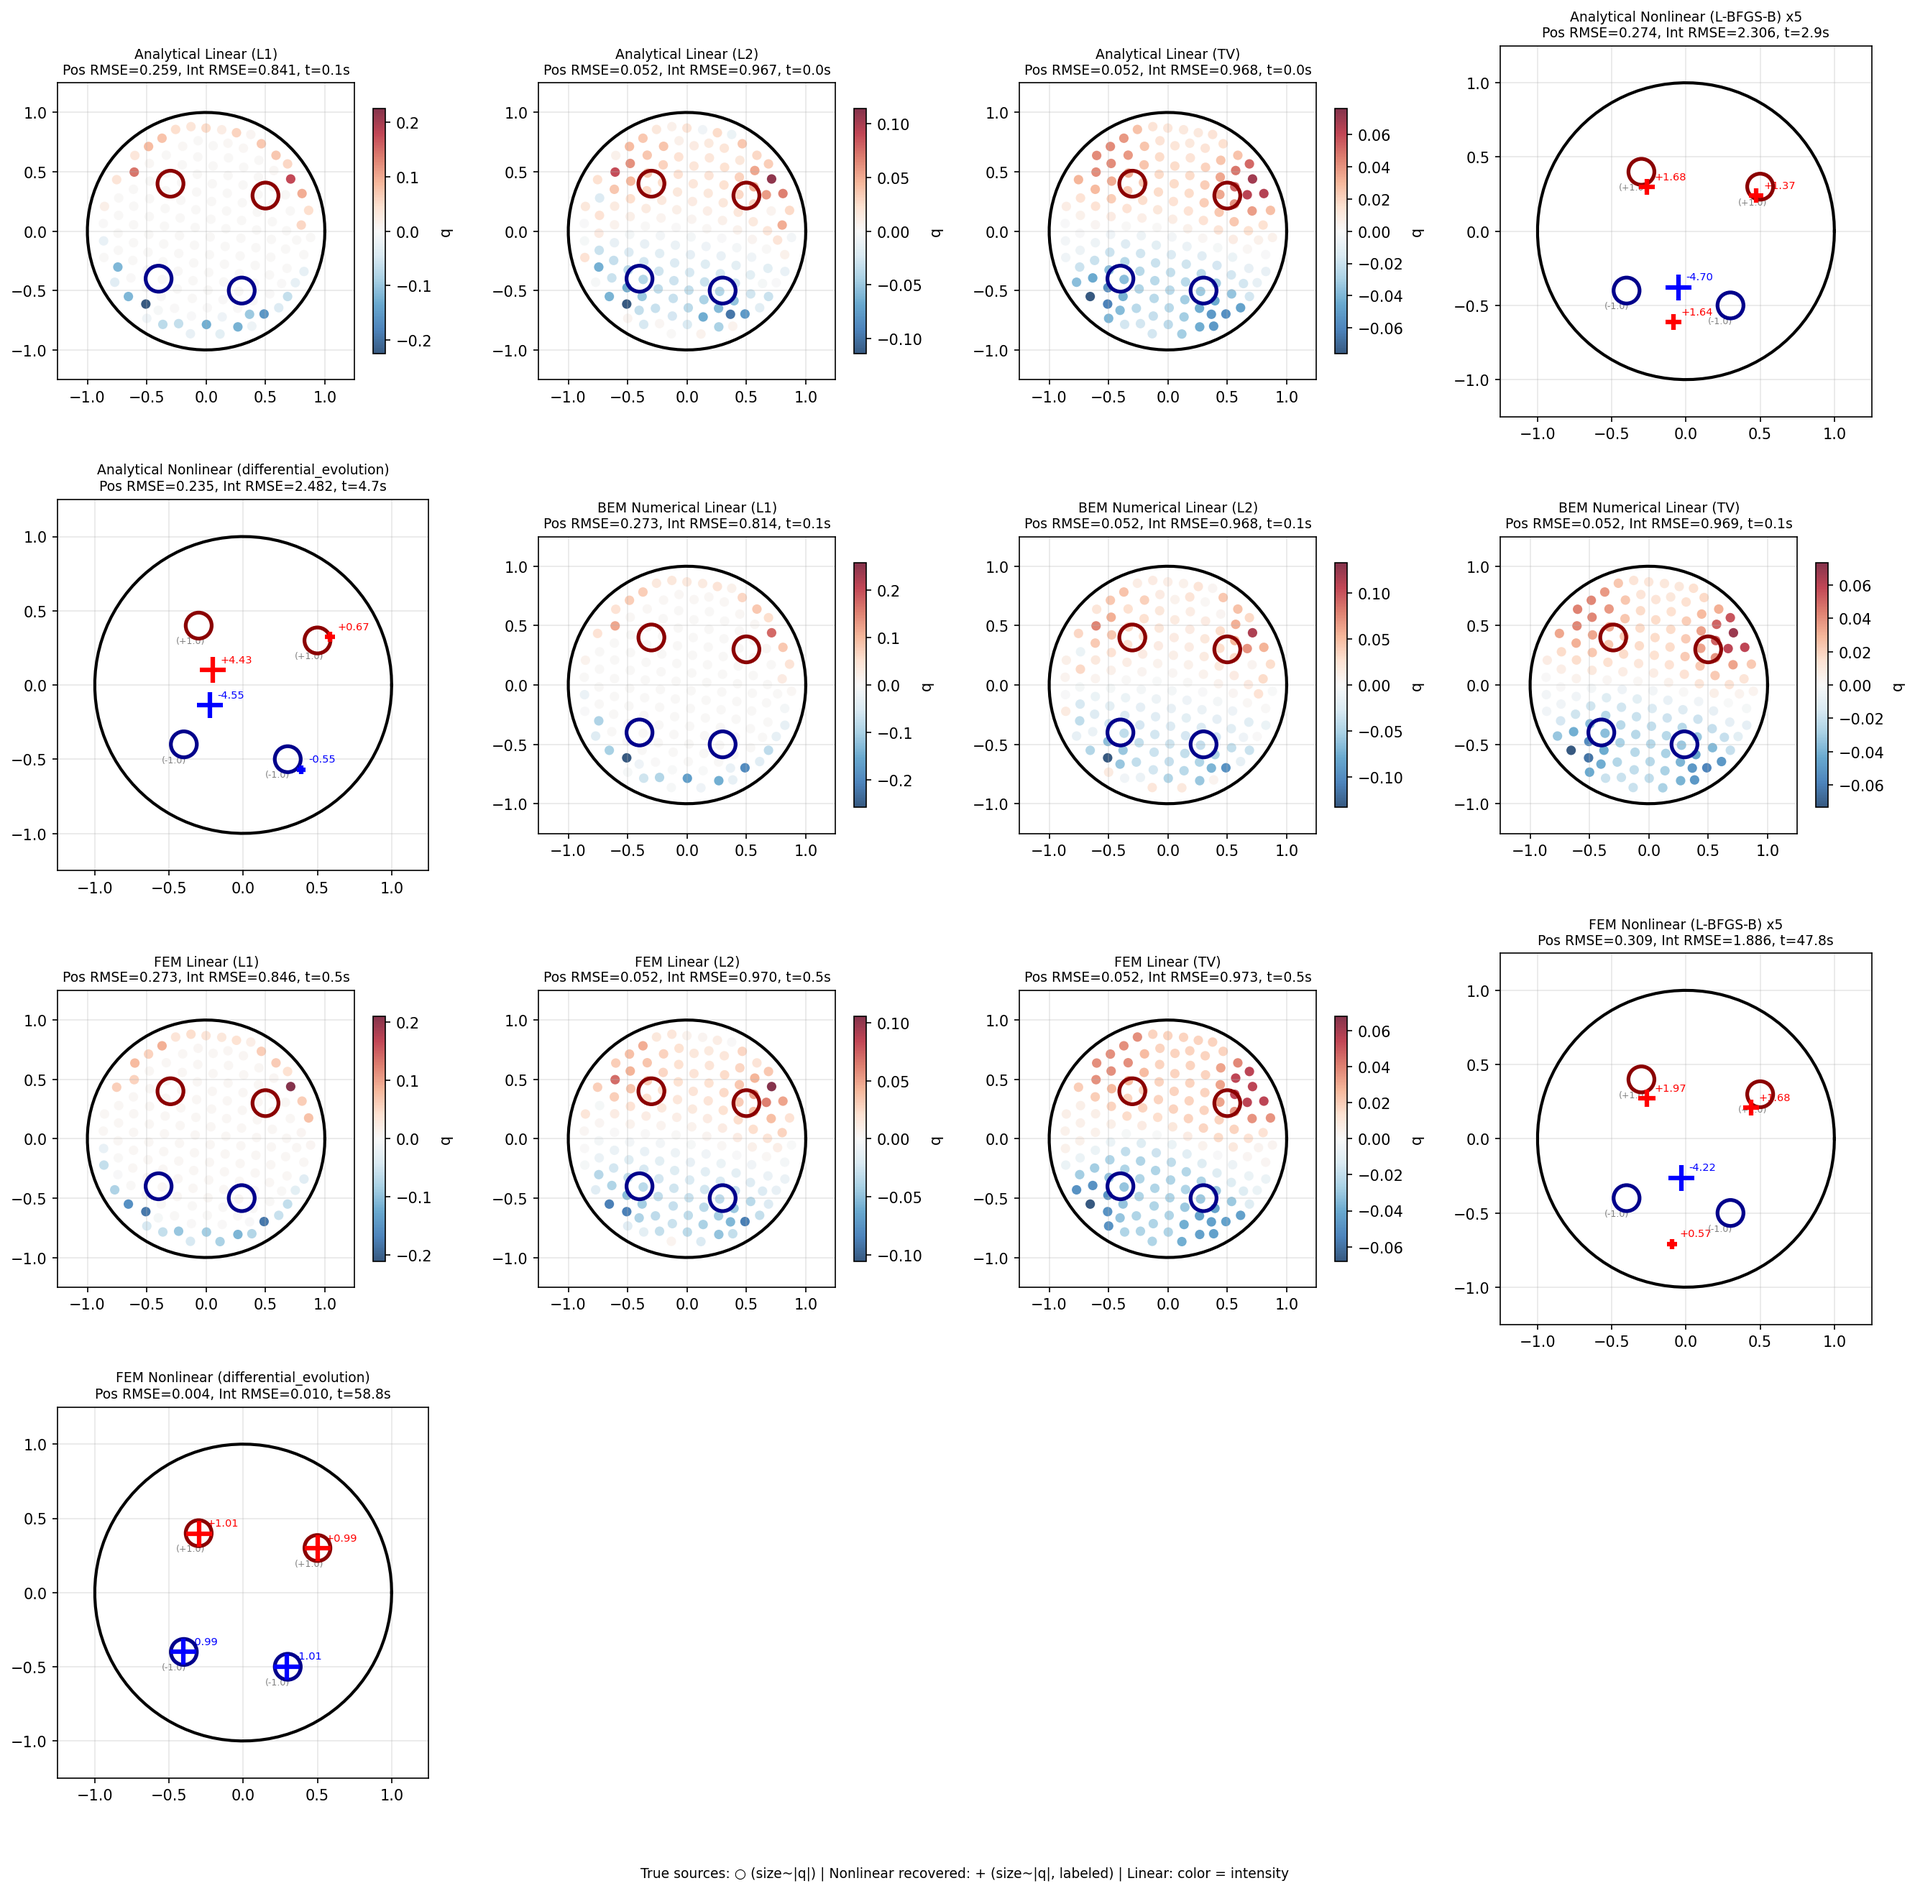
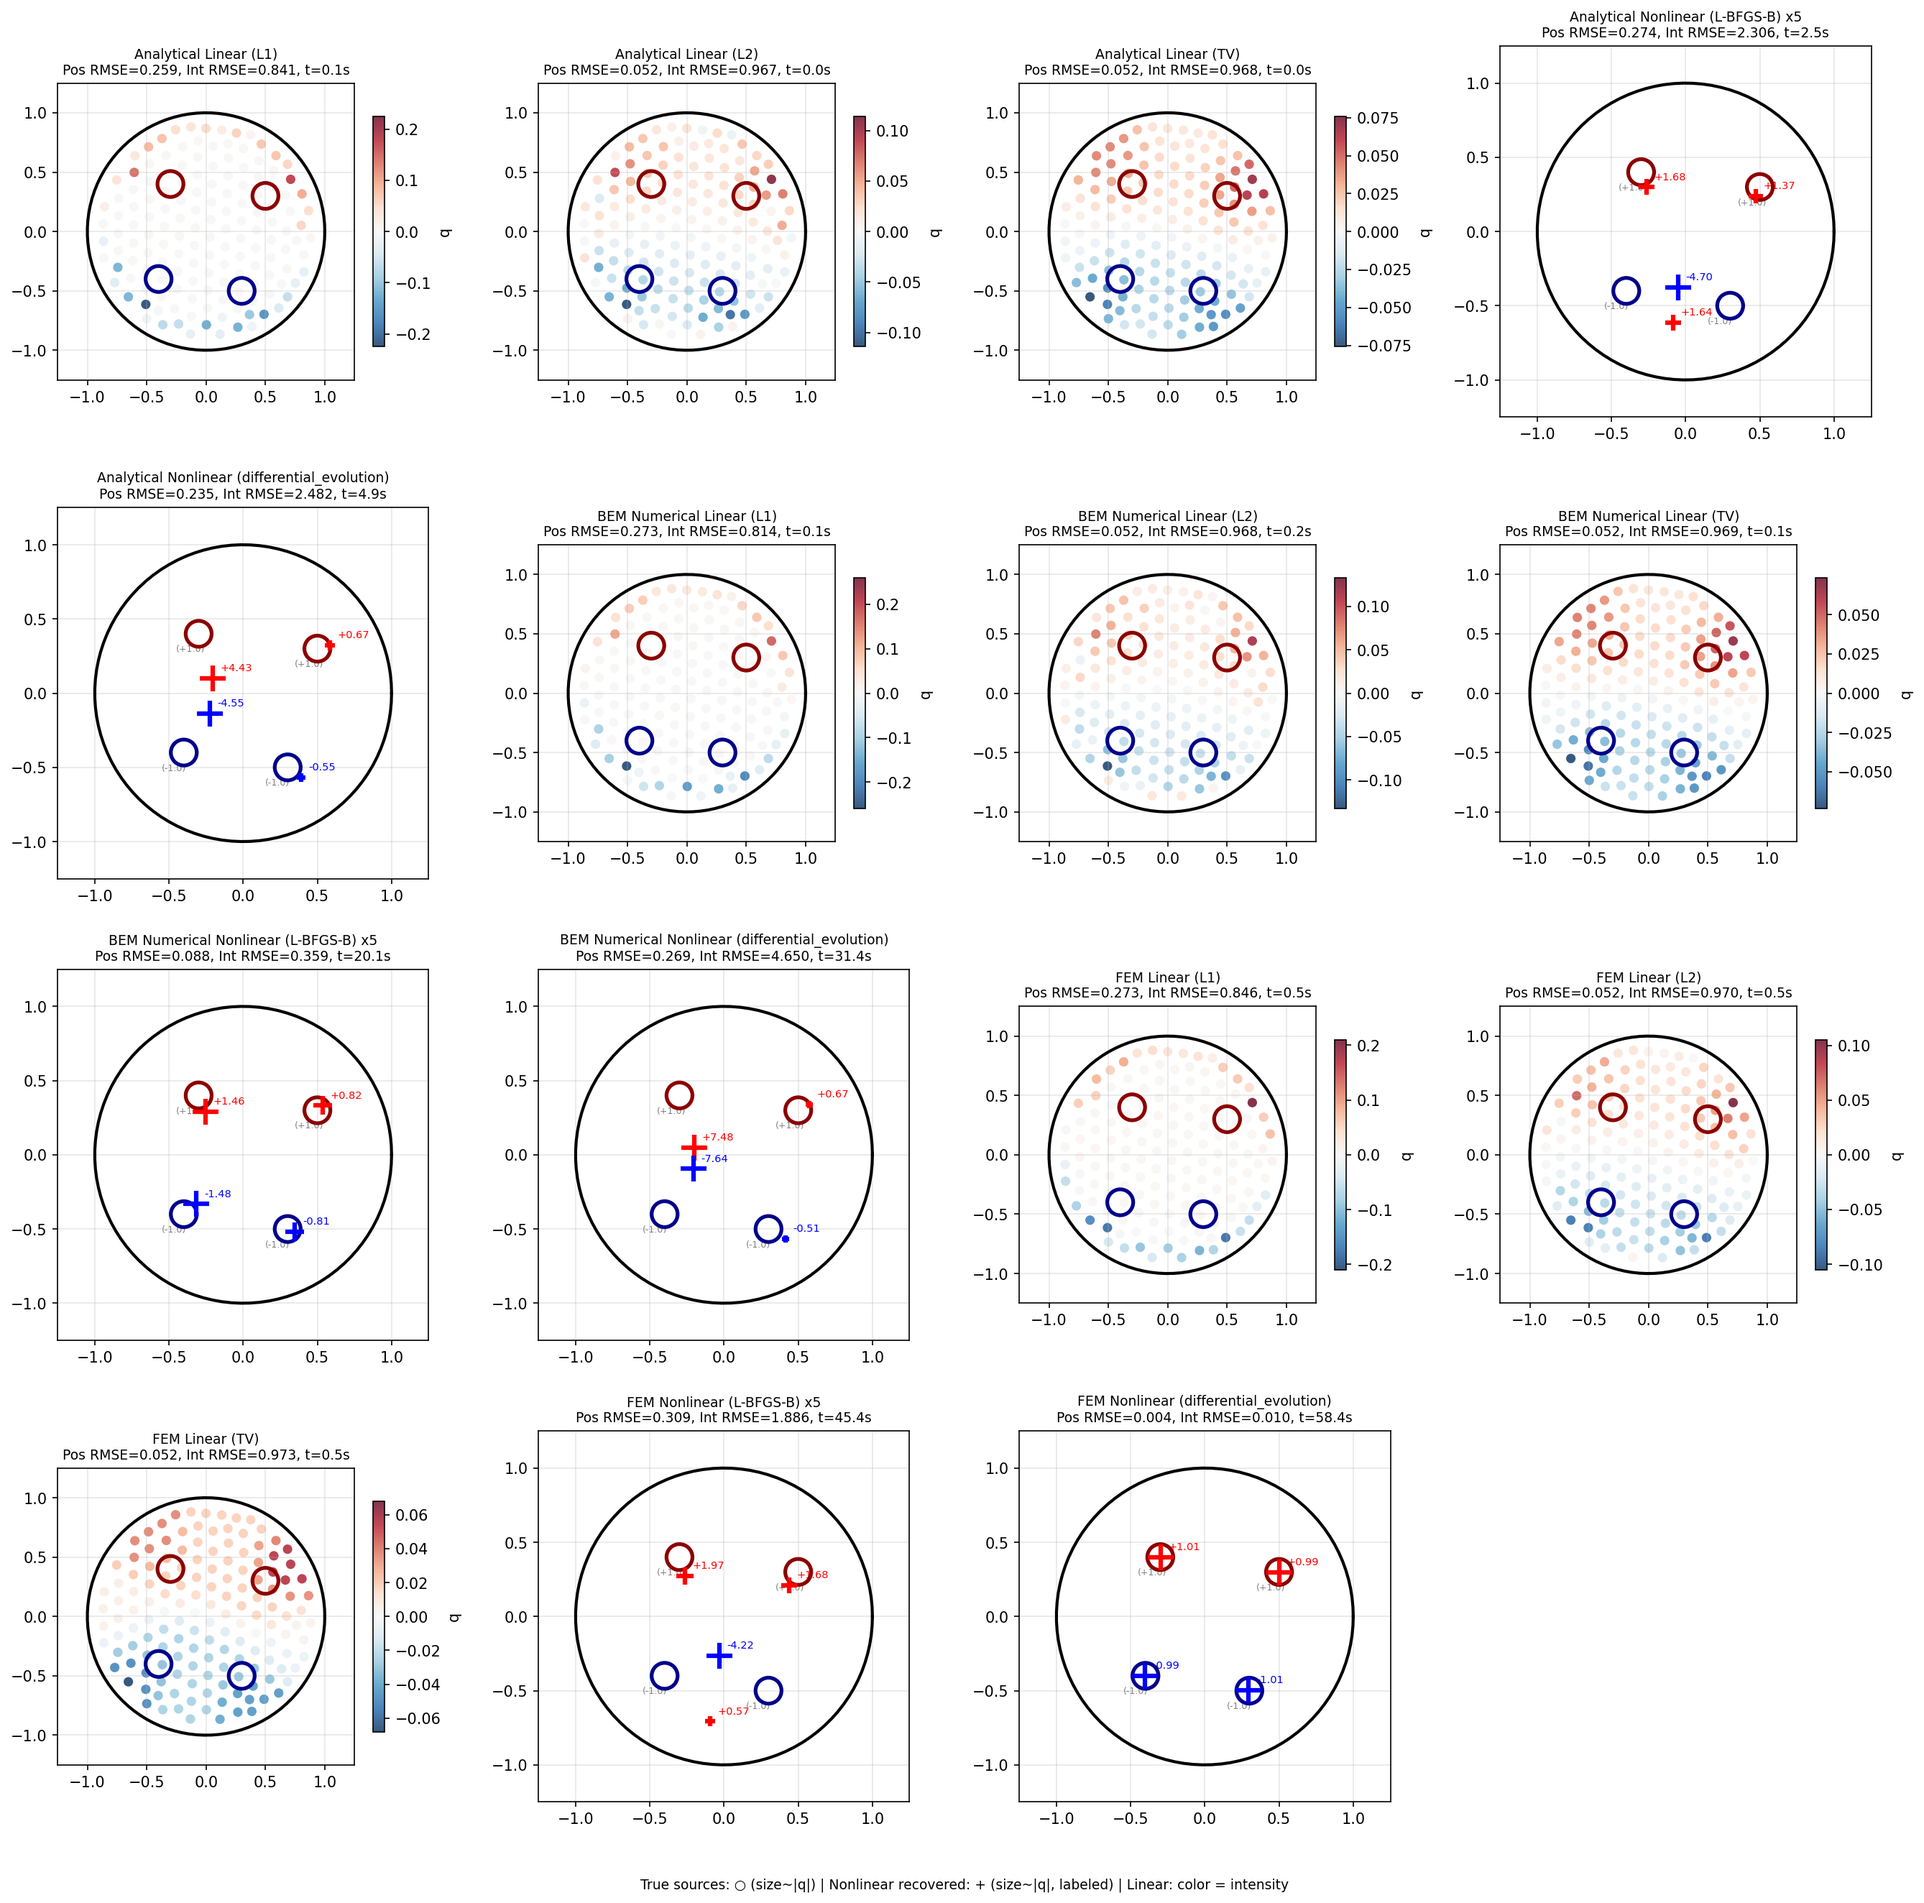
completed base version for v2

diff --git a/src/bem_solver.py b/src/bem_solver.py
@@ -426,25 +426,24 @@ class BEMNonlinearInverseSolver:
     n_sources : int
         Number of sources to recover
     n_boundary : int
-        Number of boundary measurement points
-    n_elements : int
-        Number of boundary elements for BEM
-    quadrature_order : int
-        Gaussian quadrature order
+        Number of boundary measurement points (must match u_measured size)
     """
     
-    def __init__(self, n_sources: int, n_boundary: int = 100, 
-                 n_elements: int = 64, quadrature_order: int = 6):
+    def __init__(self, n_sources: int, n_boundary: int = 100):
         self.n_sources = n_sources
-        self.forward = BEMForwardSolver(n_elements=n_elements, 
-                                         quadrature_order=quadrature_order)
         self.n_boundary = n_boundary
+        # Use same number of elements as boundary points for consistency
+        self.forward = BEMForwardSolver(n_elements=n_boundary, quadrature_order=6)
         self.u_measured = None
         self.history = []
     
     def set_measured_data(self, u_measured: np.ndarray):
         """Set the boundary measurements to fit."""
         self.u_measured = u_measured - np.mean(u_measured)
+        # Update forward solver to match measurement size if different
+        if len(u_measured) != self.n_boundary:
+            self.n_boundary = len(u_measured)
+            self.forward = BEMForwardSolver(n_elements=self.n_boundary, quadrature_order=6)
     
     def _params_to_sources(self, params: np.ndarray) -> List[Tuple[Tuple[float, float], float]]:
         """Convert optimization parameters to source list."""
@@ -539,7 +538,7 @@ class BEMNonlinearInverseSolver:
         if method.lower() == 'differential_evolution':
             self.history = []
             result = differential_evolution(self._objective, bounds, maxiter=maxiter,
-                                           seed=42, polish=True, workers=1)
+                                           seed=42, polish=True, updating='deferred')
             best_result = result
             best_misfit = result.fun
             

diff --git a/src/comparison.py b/src/comparison.py
@@ -426,7 +426,6 @@ def run_bem_numerical_nonlinear(u_measured, sources_true, n_sources=4,
         from .bem_solver import BEMNonlinearInverseSolver, BEMForwardSolver
     except ImportError:
         from bem_solver import BEMNonlinearInverseSolver, BEMForwardSolver
-    from scipy.optimize import differential_evolution
     
     t0 = time()
     
@@ -443,8 +442,8 @@ def run_bem_numerical_nonlinear(u_measured, sources_true, n_sources=4,
     # Convert sources
     sources_rec = [((s.x, s.y), s.intensity) for s in result.sources]
     
-    # Compute recovered boundary data using BEM forward
-    forward = BEMForwardSolver(n_elements=64)
+    # Compute recovered boundary data using same-sized forward solver
+    forward = BEMForwardSolver(n_elements=len(u_measured))
     u_rec = forward.solve(sources_rec)
     
     u_true = u_measured - np.mean(u_measured)
